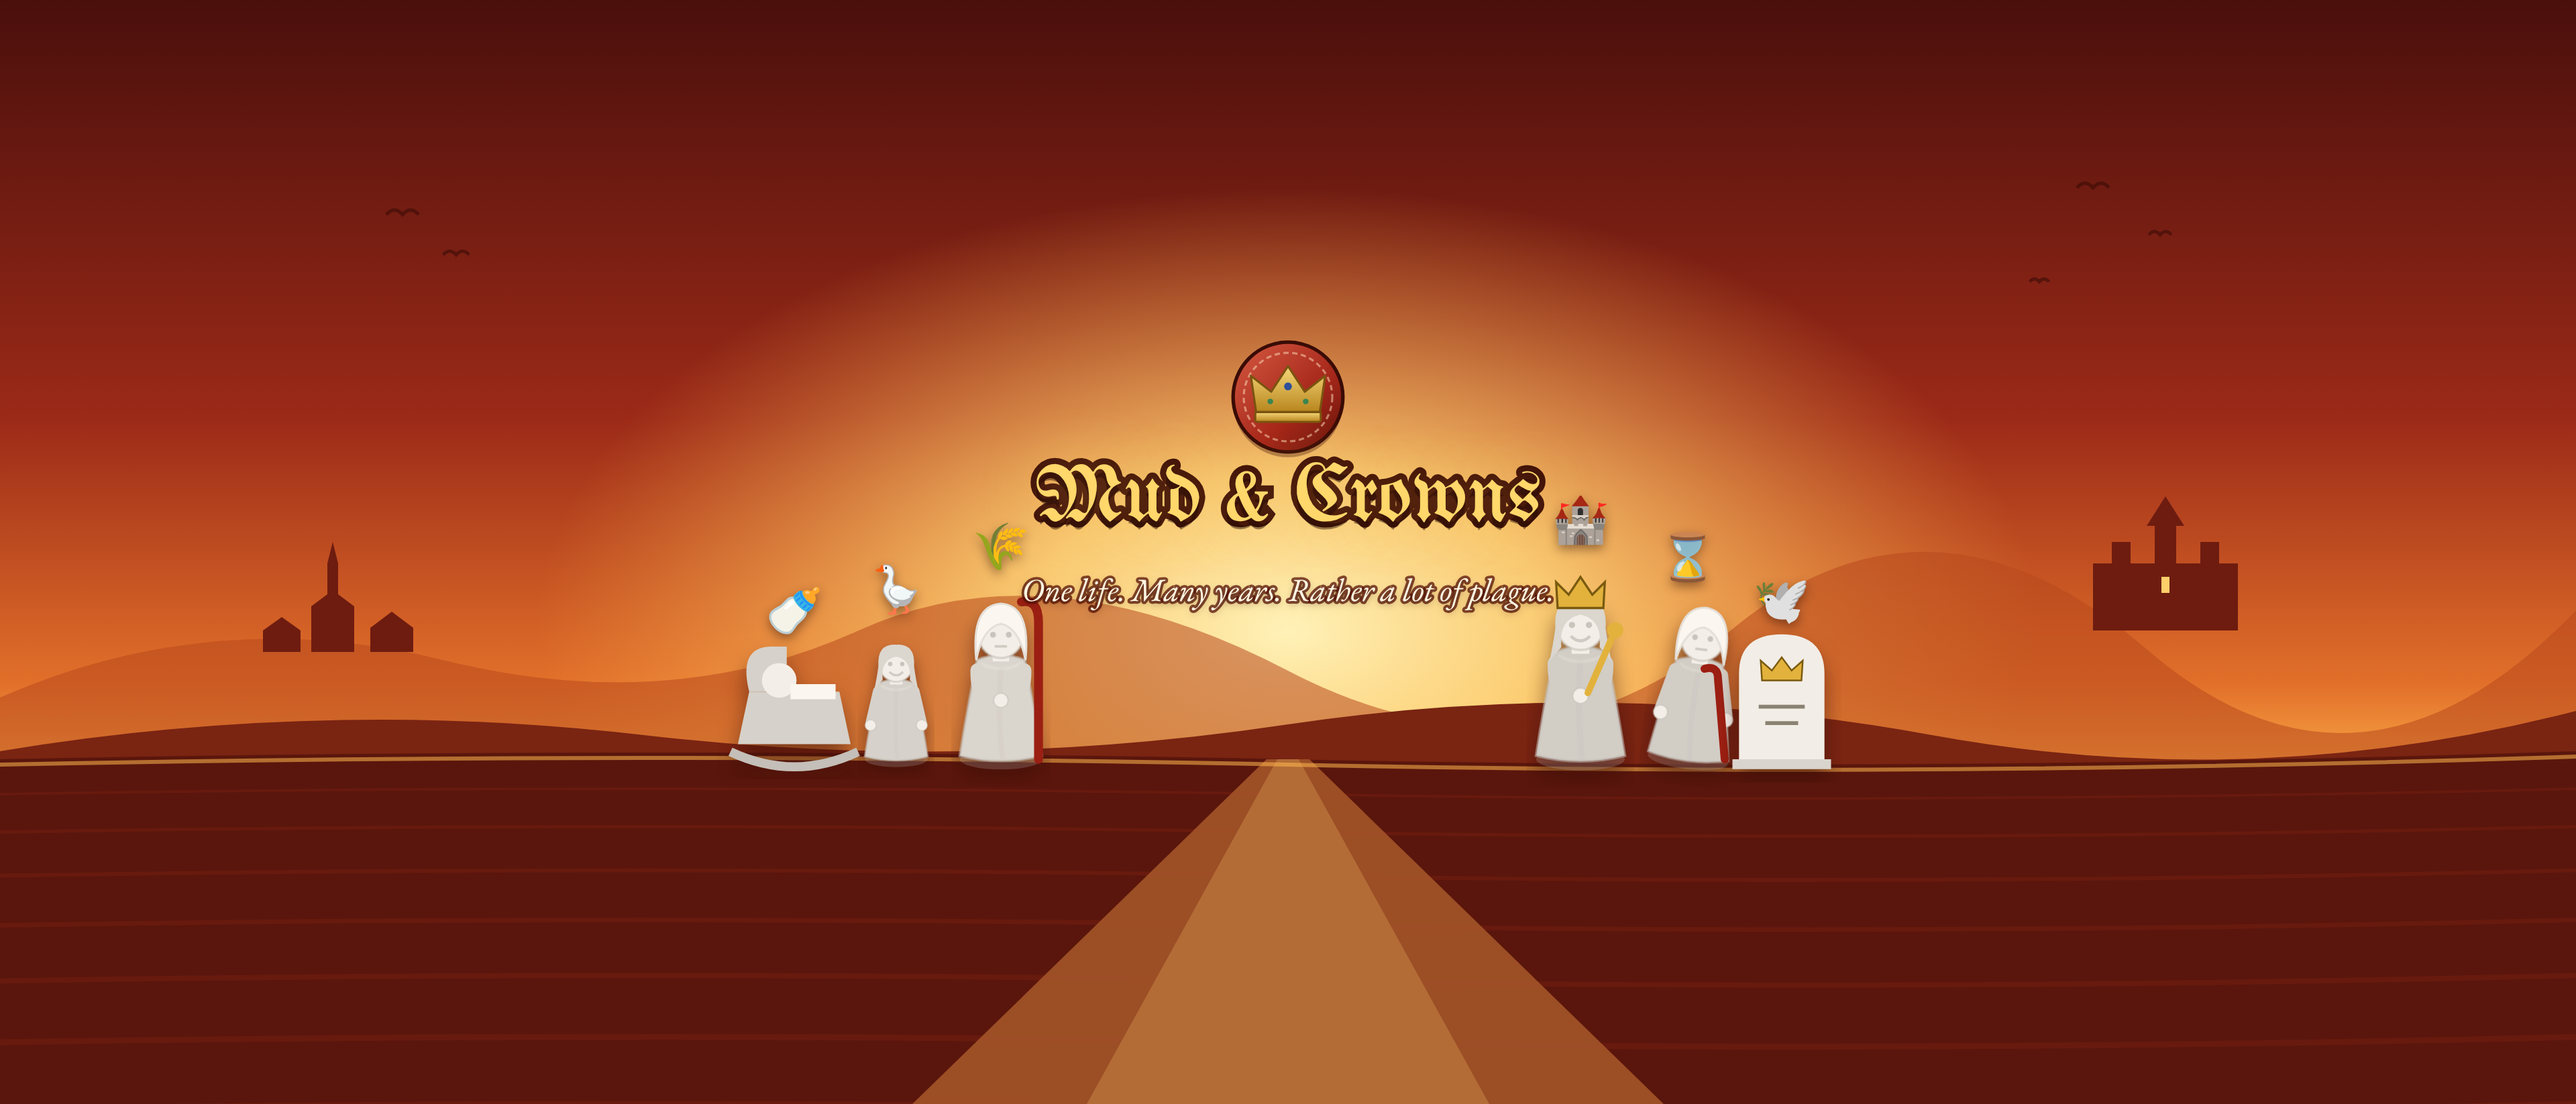
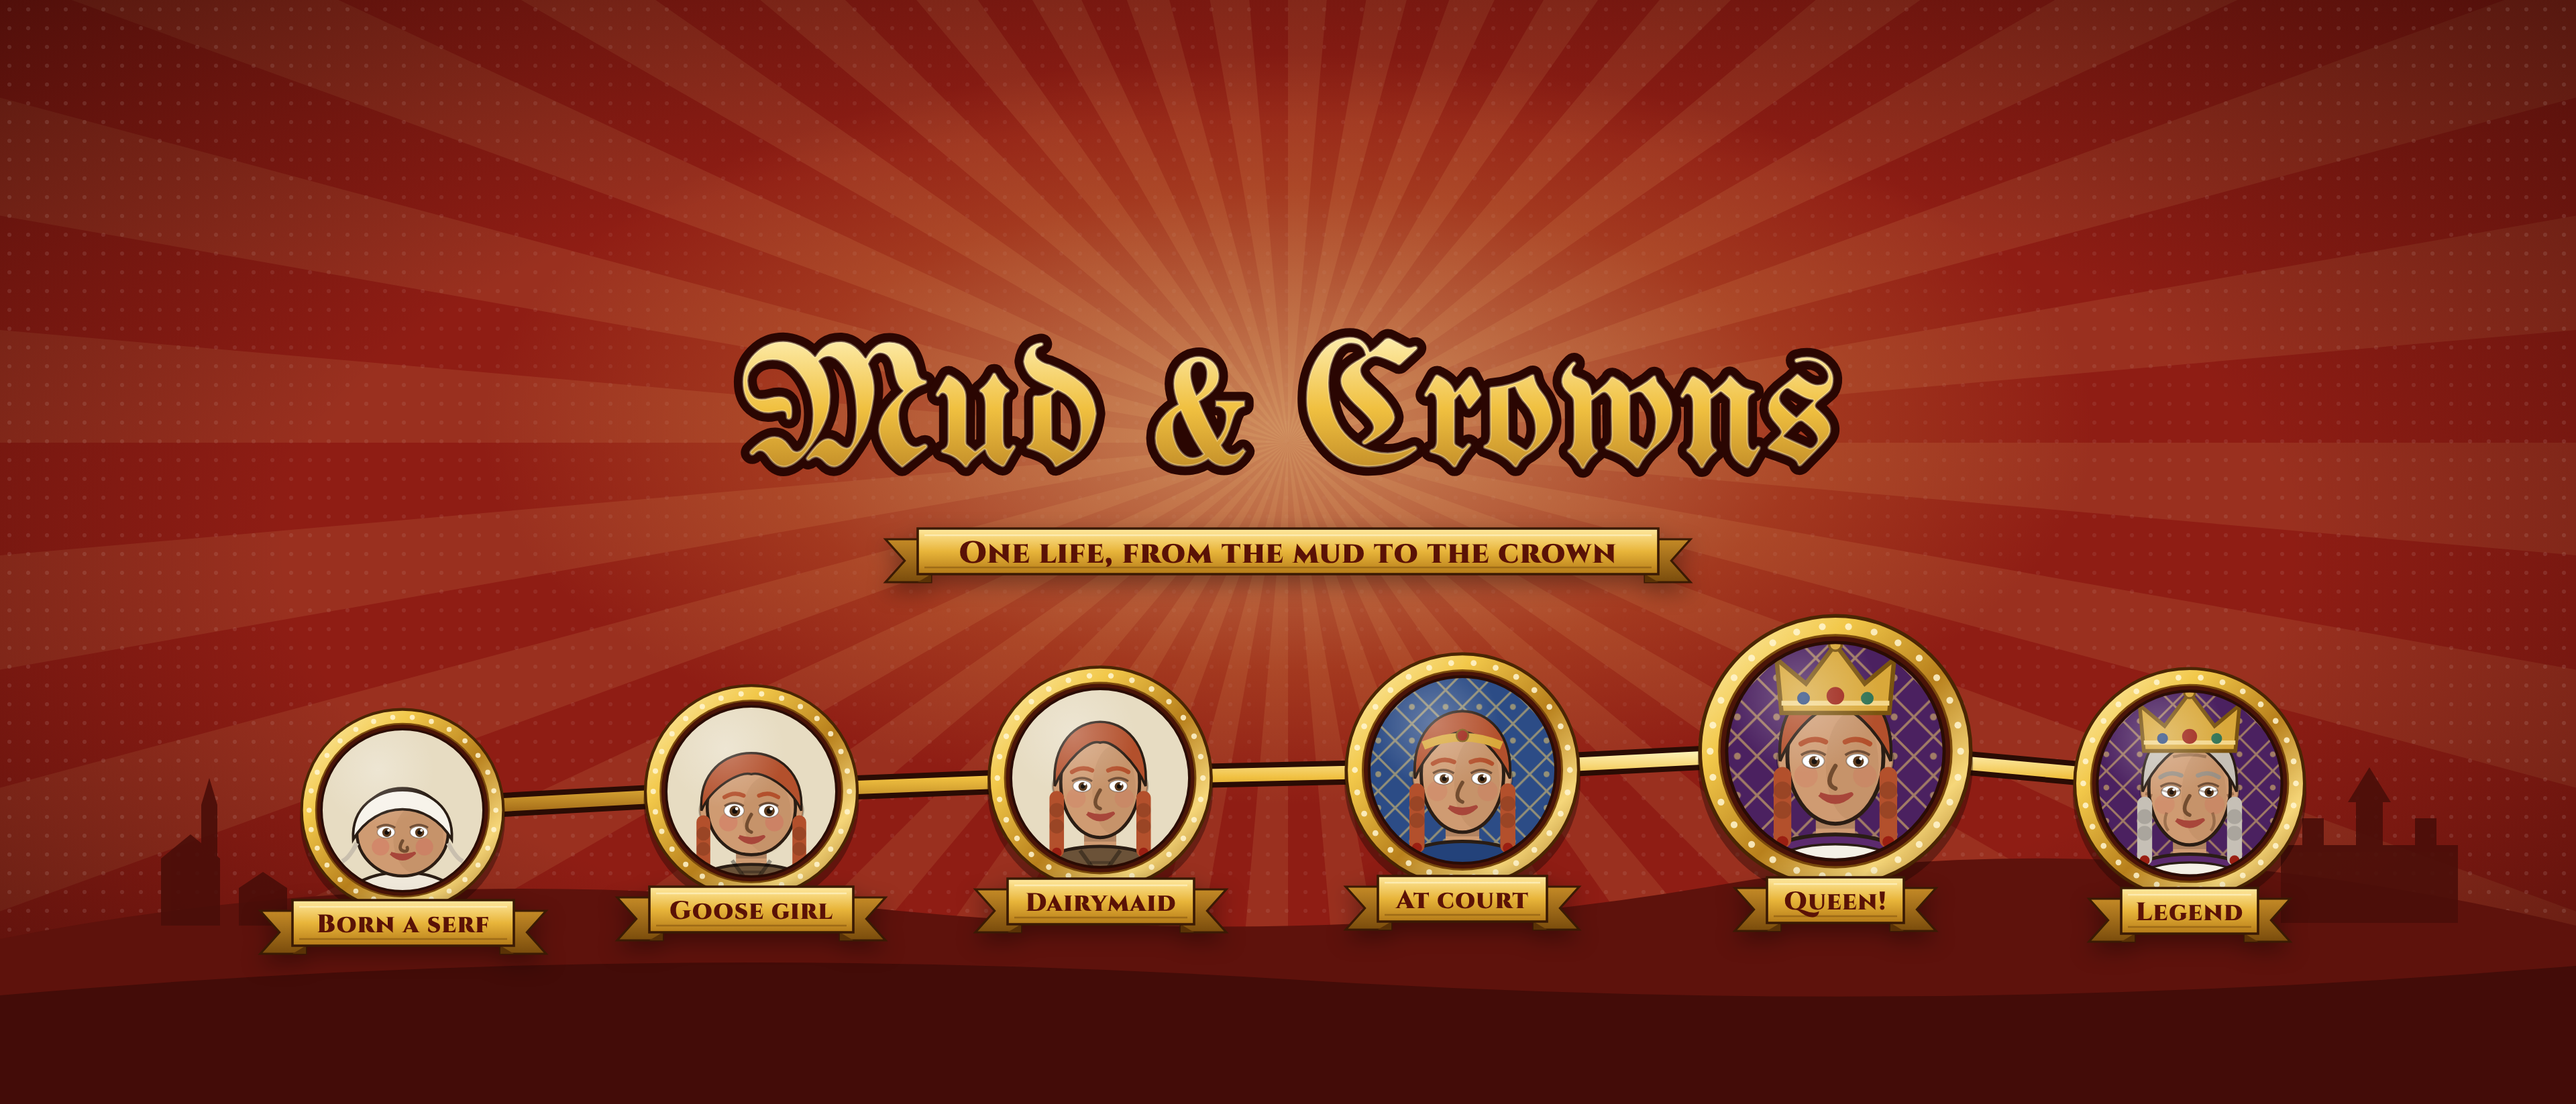
Promo pictures and header, second version
Gold-framed cards and medallions, sun-ray backgrounds, gold ribbons and
the game's own relic and portrait art in place of emoji. The header is
rebuilt: the name in gold on sun rays with Agnes's life in six gold
medallions, sized for how a phone shows it. Not sent to Apple; waiting
for approval.

Claude-Session: https://claude.ai/code/session_01Ng8y7vFwhLArsm3PAF3YVs

diff --git a/store/promo/README.md b/store/promo/README.md
@@ -13,11 +13,11 @@ BitLife-style pictures that follow one life, Agnes Atwood's: born a serf, a goos
 | MudCrowns_promo_5.png | Raise a royal family! |
 | MudCrowns_promo_6.png | Become a legend! |
 
-Upload in App Store Connect: your app, the version, then iPhone screenshots (6.7-inch), in this order. They replace the old ones; you can save them without sending a new build.
+Nothing here is sent to Apple automatically. When approved, upload in App Store Connect: your app, the version, then iPhone screenshots (6.7-inch), in this order. They replace the old ones; you can save them without sending a new build.
 
 ## Product page header: 3840 × 1646 (21:9)
 
-`MudCrowns_header_3840x1646.png` is the wide banner at the top of the product page, like BitLife's. The logo and the walk from cradle to grave sit inside Apple's central safe area (1646 × 661 at x 1097, y 493), and the sky, village and castle fill the sides. No transparency.
+`MudCrowns_header_3840x1646.png` is the wide banner at the top of the product page, like BitLife's: the name in gold on sun rays, a gold ribbon, and Agnes's life in six gold medallions (born a serf, goose girl, dairymaid, at court, queen, legend). The name and ribbon sit inside Apple's central safe area (1646 × 661 at x 1097, y 493); the medallions fill the width a phone shows. No transparency. `preview/phone_preview_header.png` is a mock-up of how it looks on a phone, for checking only: do not upload it.
 
 Headers are new with iOS 27 and only show on iOS 27 or later. Upload: your app, the version, Product Page Information, Header and Search Results, Header. Drag the file in, Save, then submit the version for review; it goes live when that version is approved and released. Use Preview there to see how it looks.
 
